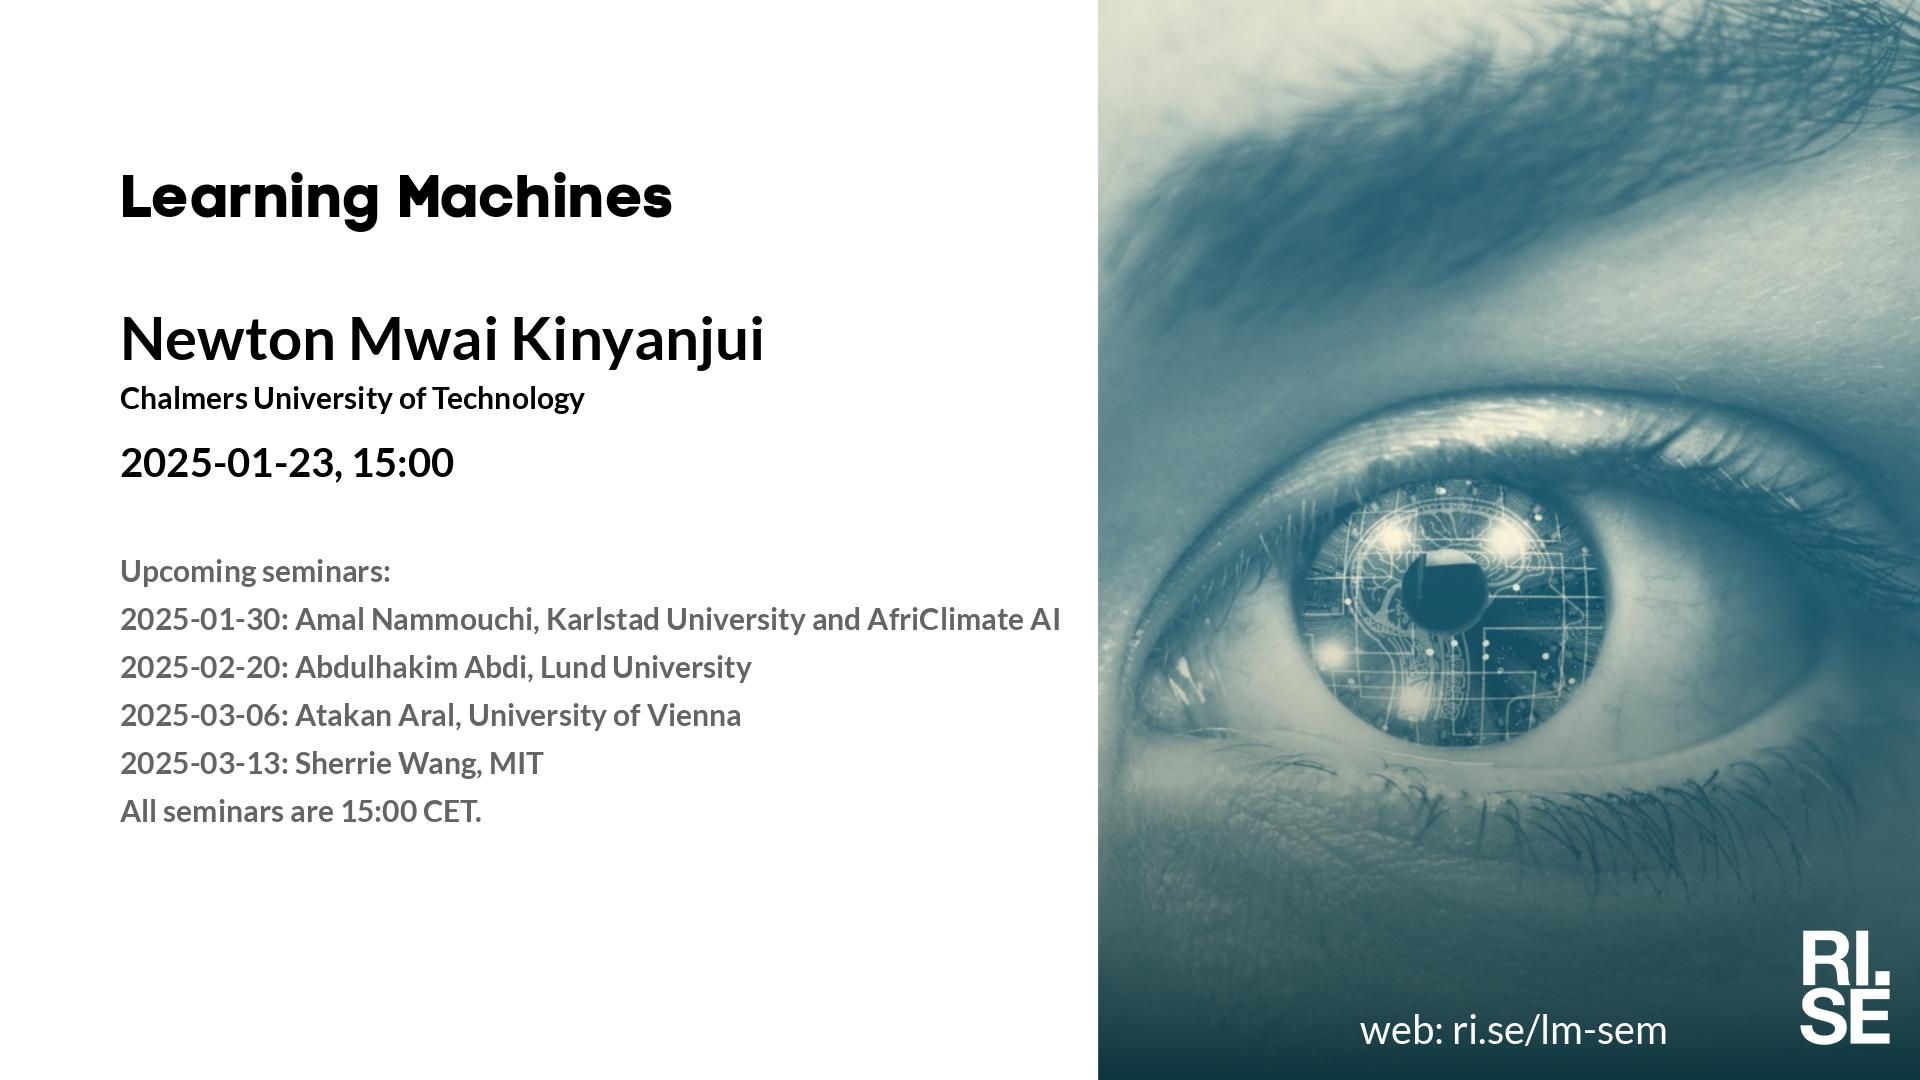
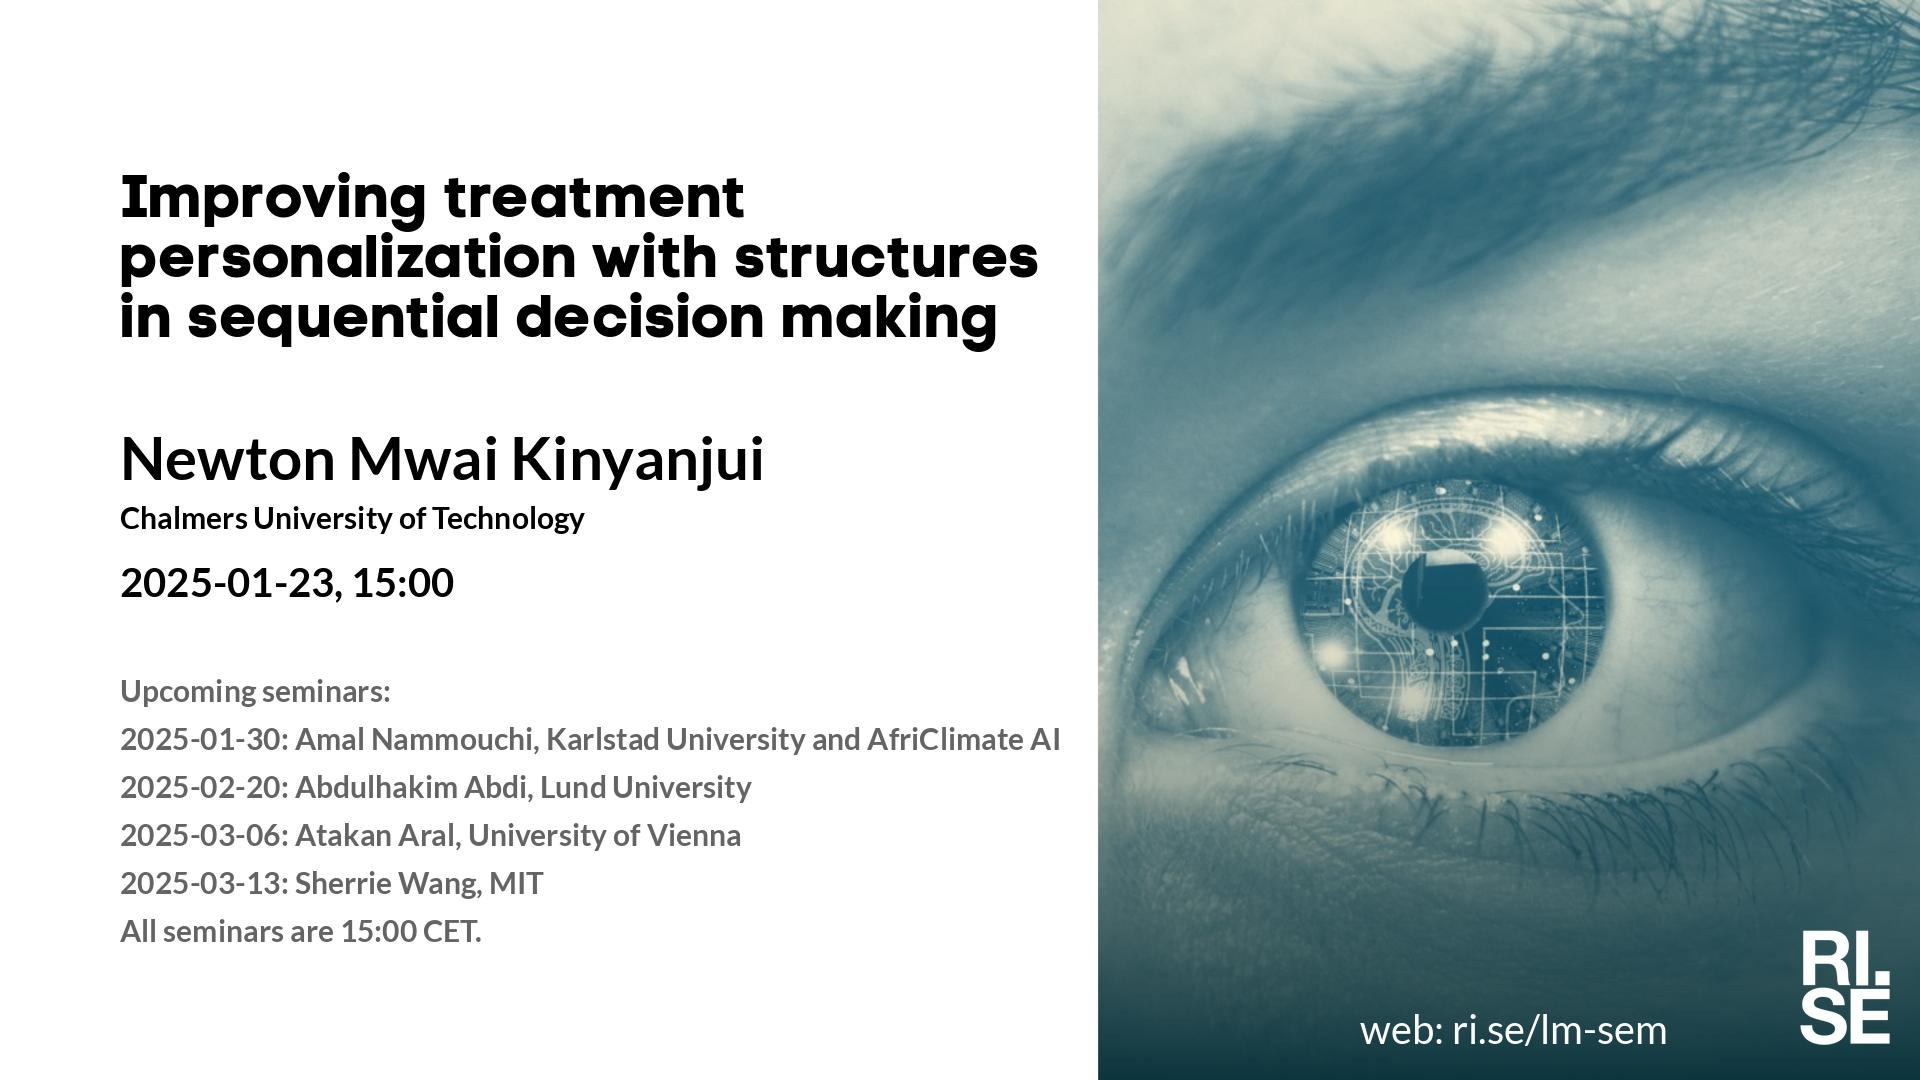
Updated plan on web site.

Changed region(s): [[0.0625, 0.1528, 0.5625, 0.4889], [0.0625, 0.5194, 0.5625, 0.8861]]

diff --git a/lm/index.md b/lm/index.md
@@ -11,7 +11,7 @@ table {border-collapse: collapse;}
 | ---- | ----------------------------------------- | ----- | ----- | ----- | ----- | -------------- |
 | <span style="color:red"> 2024-12-26 </span> | <span style="color:red"> Jullov </span> | <span style="color:red">  </span> | <span style="color:red">  </span> | <span style="color:red">  </span> | <span style="color:red">  </span> | <span style="color:red"> CANCELLED </span> |
 |  2025-01-16  |  [Oscar Täckström, Sana Labs](2025-01-16.md)  |  [photo](photo-oscar-tackstrom.jpg)  |  [social media ](social-media-oscar-tackstrom.jpg)  |  [meeting backdrop ](meeting-backdrop-oscar-tackstrom.jpg)  |  [youtube thumbnail ](youtube-thumbnail-oscar-tackstrom.jpg)  |  STABP  |
-|  2025-01-23  |  [Newton Mwai Kinyanjui, Chalmers University of Technology](2025-01-23.md)  |  [photo](photo-newton-mwai-kinyanjui.jpg)  |  [social media ](social-media-newton-mwai-kinyanjui.jpg)  |  [meeting backdrop ](meeting-backdrop-newton-mwai-kinyanjui.jpg)  |  [youtube thumbnail ](youtube-thumbnail-newton-mwai-kinyanjui.jpg)  |  S~~TA~~BP  |
+|  2025-01-23  |  [Newton Mwai Kinyanjui, Chalmers University of Technology](2025-01-23.md)  |  [photo](photo-newton-mwai-kinyanjui.jpg)  |  [social media ](social-media-newton-mwai-kinyanjui.jpg)  |  [meeting backdrop ](meeting-backdrop-newton-mwai-kinyanjui.jpg)  |  [youtube thumbnail ](youtube-thumbnail-newton-mwai-kinyanjui.jpg)  |  STABP  |
 |  2025-01-30  |  [Amal Nammouchi, Karlstad University and AfriClimate AI](2025-01-30.md)  |  [photo](photo-amal-nammouchi.jpg)  |  [social media ](social-media-amal-nammouchi.jpg)  |  [meeting backdrop ](meeting-backdrop-amal-nammouchi.jpg)  |  [youtube thumbnail ](youtube-thumbnail-amal-nammouchi.jpg)  |  STABP  |
 | <span style="color:grey"> 2025-02-06 </span> | <span style="color:grey"> Benjamin C. ? </span> | <span style="color:grey">  </span> | <span style="color:grey">  </span> | <span style="color:grey">  </span> | <span style="color:grey">  </span> | <span style="color:grey"> S~~TABP~~ </span> |
 | <span style="color:red"> 2025-02-13 </span> | <span style="color:red"> Sportlov GBG </span> | <span style="color:red">  </span> | <span style="color:red">  </span> | <span style="color:red">  </span> | <span style="color:red">  </span> | <span style="color:red"> CANCELLED </span> |

diff --git a/lm/2025-01-23.md b/lm/2025-01-23.md
@@ -5,13 +5,17 @@ metatags: "<meta name=\"robots\" content=\"noindex,nofollow\" />"
  
 Welcome to this week's Learning Machines seminar.
 
-**Title:** N/A
+**Title:** Improving treatment personalization with structures in sequential decision making
 
 **Speaker:** Newton Mwai Kinyanjui, Chalmers University of Technology
 
-**Abstract:** N/A
+**Abstract:** Personalizing treatments for patients involves a period during which different treatments from a set of available options are tried until an optimal treatment is found for particular patient characteristics. To minimize suffering and other costs, it is critical to reduce the duration of this search. When treatments have primarily short-term effects, the search can be conducted using multi-armed bandit algorithms (MABs). However, these algorithms typically require long exploration periods to guarantee optimality.
 
-**About the speaker:** Newton is a PhD Student at the Data Science and AI division at Chalmers University of Technology.
+With historical data, it is possible to identify structures that incorporate prior knowledge of the types of patients that may be encountered and the conditional reward models for those patient types. Such structural priors can be used to shorten the treatment exploration period, enhancing their applicability in real-world settings. Additionally, structures are beneficial in guiding how exploration is performed—switching treatments often incurs costs for the patient. Every time a treatment is changed, the patient must wean off their current therapy and adjust to the new treatment and its potential side effects.
+
+In this presentation, I will discuss how we leverage structures with latent bandits and batched bandits to design algorithms for treatment personalization.
+
+**About the speaker:** Newton is a PhD student in Computer Science and Engineering at Chalmers University of Technology, within the Healthy AI Lab. He works in machine learning to improve sequential decision making in healthcare using historical data. Prior to joining Chalmers, he earned a Master of Science in Electrical and Computer Engineering from Carnegie Mellon University.
 
 **Location:** This is an online seminar. Connect using Zoom.
 
